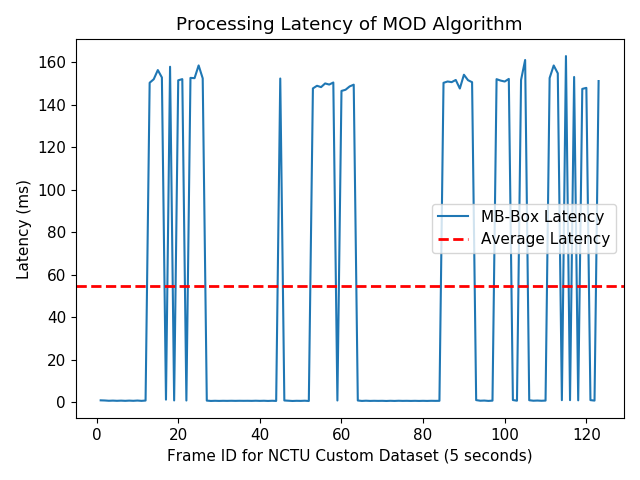
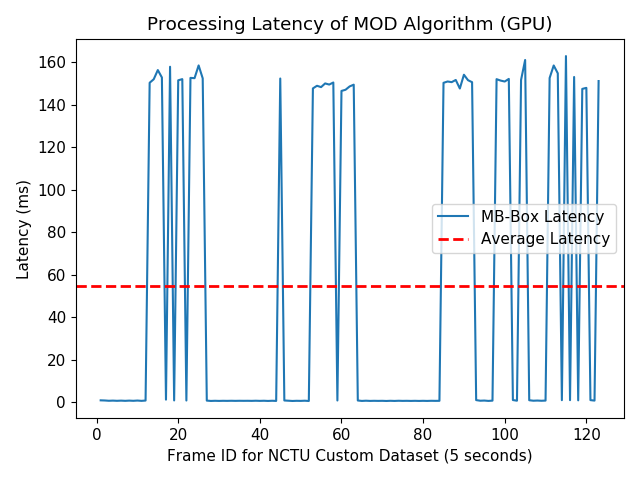
fixed minor error

Changed region(s): [[0.2188, 0.0312, 0.875, 0.0625]]

diff --git a/eval-gpu.py b/eval-gpu.py
@@ -15,7 +15,7 @@ class Plot:
 
     def run(self):
         self.__overall_graph()
-        self.__bbox_mbbox_graph()
+        self.__mbbox_graph()
         self.__comparison_graph()
 
     def __overall_graph(self):
@@ -40,7 +40,7 @@ class Plot:
         plt.show()
         fig.savefig(self.latency_output + '/latency_overall.png', dpi=fig.dpi)
 
-    def __bbox_mbbox_graph(self):
+    def __mbbox_graph(self):
         comp_path = self.latency_output + "/comparison-gpu/"
         # time_bbox_latency = read_data(comp_path+"default", self.csv_default)
         time_mbbox_latency = read_data(comp_path+"custom", self.csv_mbbox)
@@ -51,9 +51,7 @@ class Plot:
         del time_mbbox_latency[0]
         del time_mbbox_latency[1]
 
-        print(" >>> time_mbbox_latency = ", time_mbbox_latency)
         mean_mbbox = round(np.mean(np.array(time_mbbox_latency)) * 1000, 2)
-        print(" >>> mean_mbbox = ", mean_mbbox)
 
         for i in range(len(time_mbbox_latency)):
             # time_bbox_latency[i] = time_bbox_latency[i] * 1000
@@ -63,11 +61,11 @@ class Plot:
         K = len(time_mbbox_latency)
         ks = int_to_tuple(K)  # used to plot the results
 
-        red_patch = mpatches.Patch(color='red', label='The red data')
-        blue_patch = mpatches.Patch(color='blue', label='The blue data')
+        # red_patch = mpatches.Patch(color='red', label='The red data')
+        # blue_patch = mpatches.Patch(color='blue', label='The blue data')
 
         fig = plt.figure()
-        title = "Processing Latency of MOD Algorithm"
+        title = "Processing Latency of MOD Algorithm (GPU)"
         plt.title(title)
         plt.plot(ks, time_mbbox_latency, label='MB-Box Latency')
         # plt.plot(ks, time_bbox_latency, label='Default B-Box Latency')
